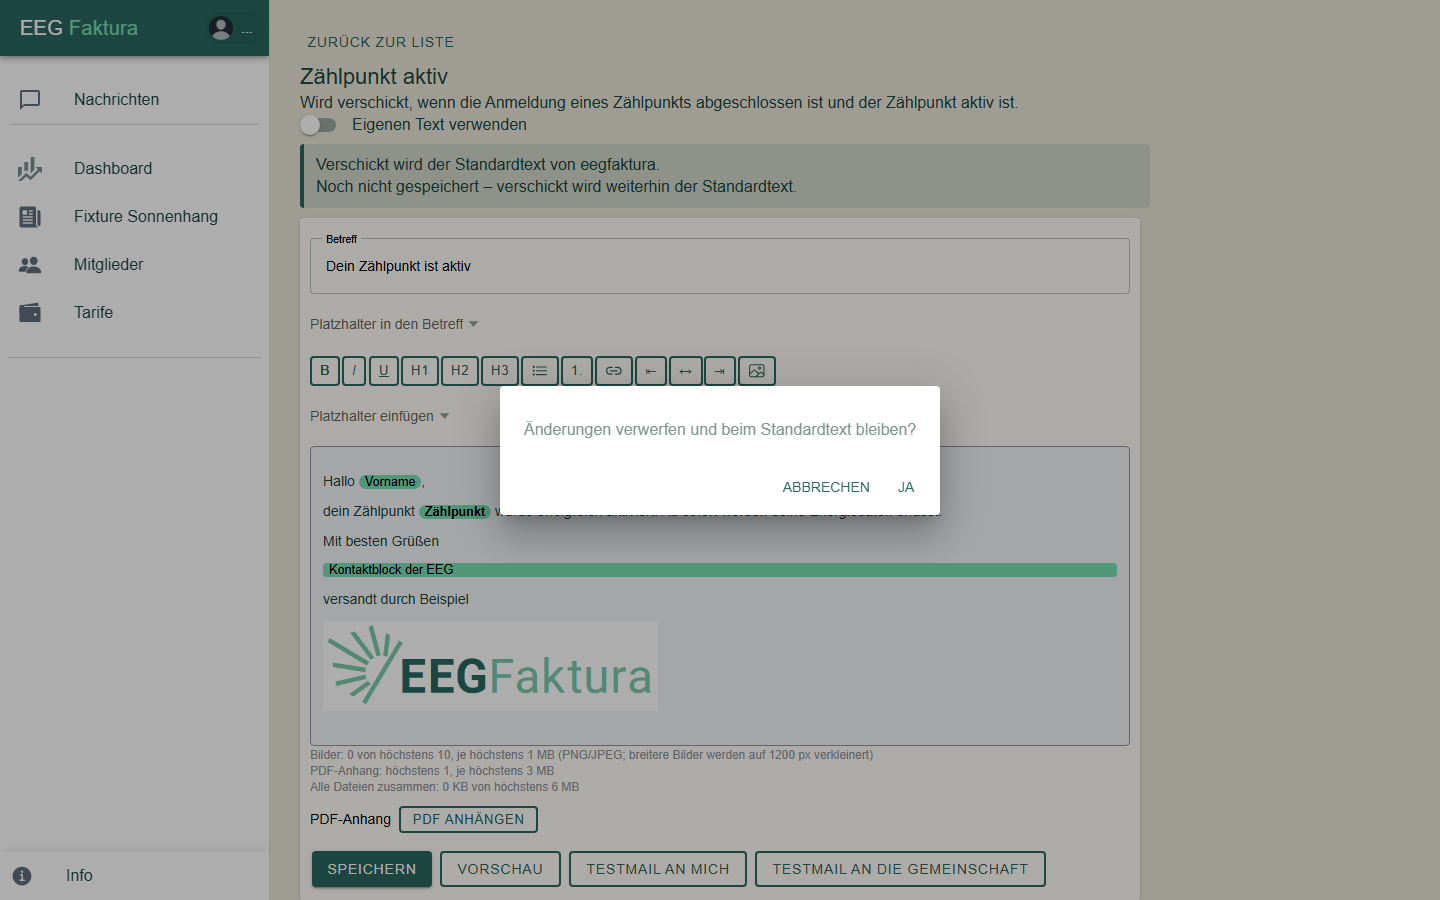
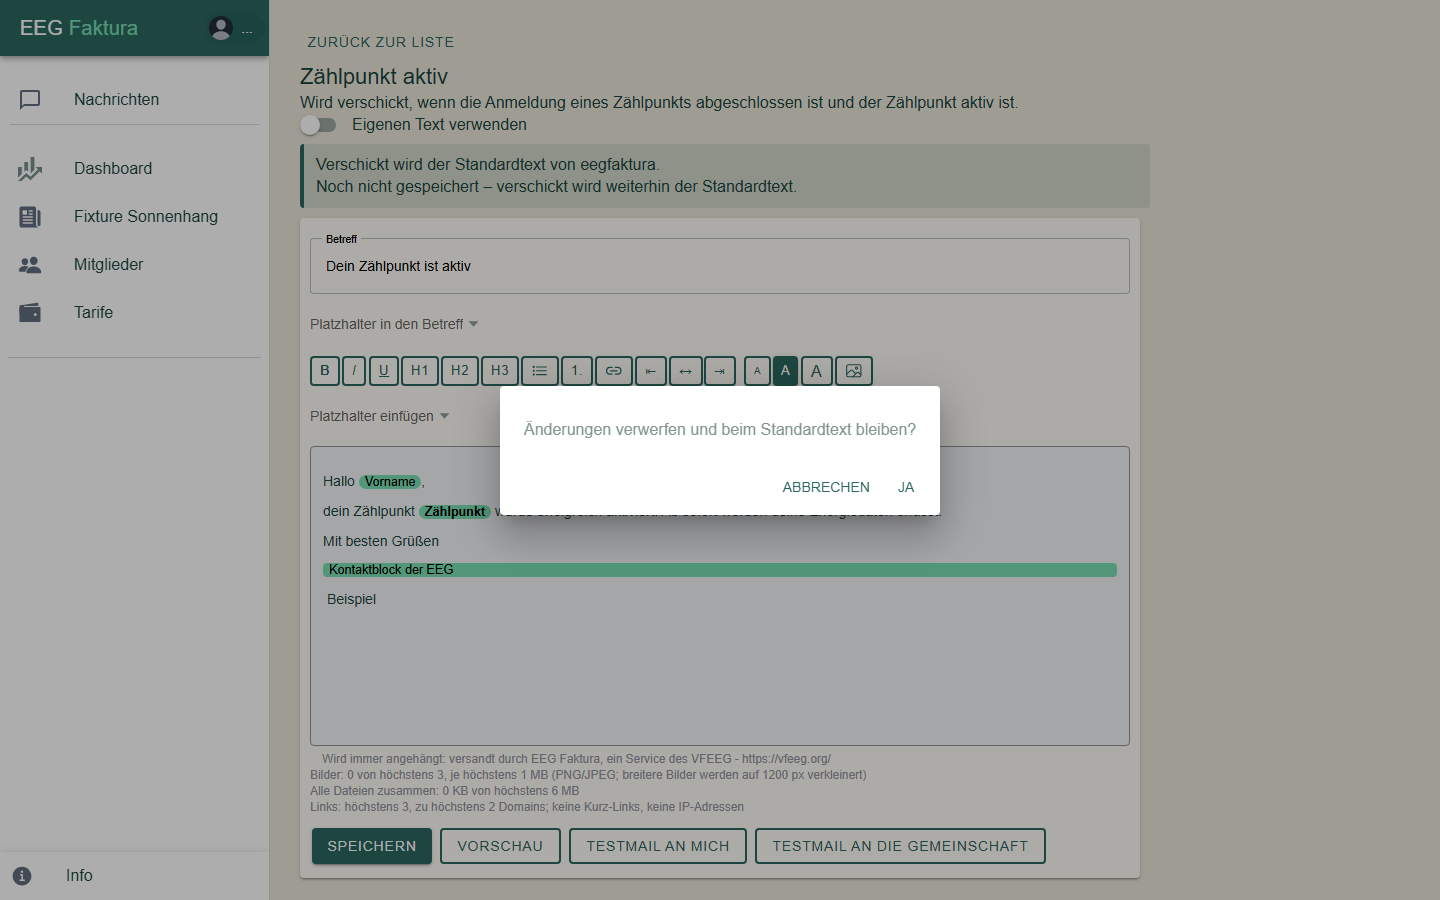
docs: bring the guide in line with the production release of 28.10.2026
Member list filters and sort options (ch. 2), mail-text editor additions,
limits and link rules (ch. 3), dashboard membership fees (ch. 1), 0 % VAT
without "Umsatzsteuer anführen" (ch. 4), ZIP names (ch. 5), process
selections and history dates (ch. 8); "Was ist neu?" describes the
production state. Screenshots retaken on the local stack at the release
state (web 1.14.0); the sort screenshot waits for the new popover.

Changed region(s): [[0.2188, 0.8089, 0.7812, 0.9956], [0.2188, 0.6533, 0.4688, 0.7778], [0.5, 0.3733, 0.625, 0.4356]]

diff --git a/scripts/screenshots.py b/scripts/screenshots.py
@@ -177,7 +177,7 @@ def chapter_members(page: Page) -> None:
 
     def sort_dialog():
         page.locator(".period-filter-menu .sort").first.click()
-        page.locator("ion-alert").wait_for()
+        page.locator("ion-popover .member-sort-popover").wait_for()
         shot("mitglieder-sortierung", page)
         close_overlays(page)
 

diff --git a/docs/03-email-texte.md b/docs/03-email-texte.md
@@ -2,7 +2,10 @@
 
 eegFaktura schickt deinen Mitgliedern automatisch E-Mails, zum Beispiel wenn ein Zählpunkt aktiv wird oder eine
 Rechnung fertig ist. Für jede dieser Mails gibt es einen **Standardtext von eegFaktura**. Du kannst ihn
-übernehmen, wie er ist, oder einen **eigenen Text** mit Bildern und einem PDF-Anhang gestalten.
+übernehmen, wie er ist, oder einen **eigenen Text** mit Bildern gestalten.
+
+Unter jeder Mail steht eine feste Zeile, die du nicht ändern kannst: „versandt durch EEG Faktura, ein Service des
+VFEEG - https://vfeeg.org/“. Im Editor siehst du sie grau unter dem Text („Wird immer angehängt: …“).
 
 Die E-Mail-Texte können nur **EEG-Admins** bearbeiten.
 
@@ -56,25 +59,45 @@ EEG**; er kommt aus den Angaben des Belegs, und dort gibt es zusätzlich den Pla
     - Die Knöpfe über dem Text formatieren ihn: **Fett**, **Kursiv**, **Unterstrichen**, **Überschrift 1–3**,
       **Aufzählung**, **Nummerierte Liste**, **Link**, **Linksbündig**, **Zentriert**, **Rechtsbündig** und
       **Bild einfügen**.
+    - **Schriftgröße** setzt den Absatz, die Überschrift oder den Listenpunkt am Cursor auf **Klein**, **Normal**
+      oder **Groß**.
     - **Platzhalter einfügen** setzt einen Platzhalter an die Stelle des Cursors; Einträge mit „(Baustein)“ fügen
       einen ganzen Absatz ein. **Platzhalter in den Betreff** macht dasselbe für den Betreff.
-    - Links müssen mit `https://` oder `mailto:` beginnen.
+    - Für Links gelten Regeln gegen Spam, siehe [Links](#links).
 3. Klicke auf **Speichern**. Ab jetzt verschickt eegFaktura eure Fassung; der Kasten wird grün:
    „Verschickt wird eure eigene Fassung (gespeichert am … von …).“
 
-### Bilder und PDF-Anhang
+### Bilder
 
-Mit eingeschaltetem eigenem Text kannst du Bilder (PNG oder JPEG) in den Text einfügen und bei den Mitglieder-Mails
-ein PDF anhängen (z. B. eine Anleitung). Breitere Bilder werden auf 1200 px verkleinert. Unter dem Text stehen die
-Grenzen der jeweiligen Mail:
+Mit eingeschaltetem eigenem Text kannst du Bilder (PNG oder JPEG) in den Text einfügen: mit **Bild einfügen**, durch
+Einfügen aus der Zwischenablage oder indem du die Bilddatei in den Text ziehst. Breitere Bilder werden auf 1200 px
+verkleinert. Fotos verlieren dabei ihre versteckten Angaben (z. B. den Aufnahmeort), bevor sie hochgeladen werden.
+Klickst du ein Bild an, stellst du unter **Bildgröße** **Klein**, **Mittel** oder **Groß** ein.
+
+Unter dem Text stehen die Grenzen der jeweiligen Mail:
 
 | | Freigabe-Aufforderung, Zählpunkt aktiv, Zählpunkt inaktiv | Rechnung / Gutschrift |
 |---|---|---|
-| Bilder | höchstens 10, je höchstens 1 MB | höchstens 3 |
-| PDF-Anhang (**PDF anhängen**) | höchstens 1, höchstens 3 MB | keiner — der Beleg ist immer angehängt |
-| alle Dateien zusammen | höchstens 6 MB | höchstens 500 KB |
+| Bilder | höchstens 3, je höchstens 1 MB | höchstens 3 |
+| alle Bilder zusammen | höchstens 6 MB | höchstens 500 KB |
+| PDF-Anhang | keiner | keiner — der Beleg ist immer angehängt |
 
-Neu hochgeladene Dateien sind **Entwürfe**: Sie werden erst mit dem Speichern verwendet.
+Neu hochgeladene Bilder sind **Entwürfe**: Sie werden erst mit dem Speichern verwendet.
+
+### Links
+
+Damit eure Mails nicht im Spam landen, prüft eegFaktura die Links beim Speichern, bei der Vorschau und bei der
+Testmail:
+
+- höchstens **3 Links** je Mail, zu höchstens **2 Domains** (`portal.netz.at` und `www.netz.at` zählen als eine);
+  E-Mail-Links (`mailto:`) und die feste Zeile unten zählen nicht mit,
+- Links beginnen mit `https://` oder `mailto:`,
+- keine Kurz-Links (z. B. bit.ly) und keine IP-Adressen,
+- steht im Linktext eine Adresse, muss es dieselbe sein wie das Ziel des Links,
+- kein Platzhalter in einem Link,
+- Domains mit Umlauten schreibst du in der Form mit `xn--` (z. B. `xn--mnchen-3ya.at` statt `münchen.at`).
+
+Verstößt ein Text gegen eine Regel, speichert eegFaktura ihn nicht und nennt den Grund.
 
 ## Vorschau und Testmail
 

diff --git a/docs/changelog.md b/docs/changelog.md
@@ -3,19 +3,48 @@
 Neue Funktionen von eegFaktura, die du als EEG-Admin bemerkst. Die Kapitel beschreiben jeweils den aktuellen
 Stand.
 
-## Herbst 2026
+## Herbst 2026 (seit 28.10.2026)
 
 ### E-Mail-Texte selbst gestalten
 
 Die automatischen Mails an Mitglieder (Freigabe-Aufforderung, Zählpunkt aktiv, Zählpunkt inaktiv,
-Rechnung / Gutschrift) lassen sich anpassen: eigener Betreff und Text, Bilder, PDF-Anhang, Vorschau und Testmail.
-Ob der Standardtext oder ein eigener Text verschickt wird, wählst du mit dem Schalter **Eigenen Text verwenden**.
+Rechnung / Gutschrift) lassen sich anpassen: eigener Betreff und Text, Schriftgröße, Bilder (auch per Einfügen oder
+Ziehen), Vorschau und Testmail. Ob der Standardtext oder ein eigener Text verschickt wird, wählst du mit dem
+Schalter **Eigenen Text verwenden**. Unter jeder Mail steht fest „versandt durch EEG Faktura, ein Service des
+VFEEG“. Gegen Spam gelten Regeln für Links (höchstens 3, keine Kurz-Links).
 Siehe [E-Mail-Texte](03-email-texte.md).
 
-### Dashboard: Bilanzdifferenz und Energiemengen
+### Energiedaten smart nachfordern
 
-Der **Lastverlauf** zeigt die Bilanzdifferenz (Hinweis auf fehlende Energiedaten) und markiert auffällige Zeiträume. Unter **Energiemengen** nennt ein
-Hinweis die Zählpunkte ohne gültigen Tarif, die in „Eingekauft“ und „Verkauft“ nicht enthalten sind.
+Beim Nachfordern prüft eegFaktura zuerst, wo Daten fehlen oder nur L3-Werte da sind, und fordert nur diese
+Zählpunkte an. Den Fortschritt siehst du unter **Nachrichten**.
+Siehe [Prozesse](08-prozesse.md#zahlpunktdaten-nachfordern).
+
+### Dashboard
+
+- Tagesansicht für die ganze Gemeinschaft, Zeitraum in den oberen Kacheln.
+- Der **Lastverlauf** zeigt die Bilanzdifferenz (Hinweis auf fehlende Energiedaten) und markiert auffällige
+  Zeiträume.
+- Unter **Energiemengen** nennt ein Hinweis die Zählpunkte ohne gültigen Tarif, die in „Eingekauft“ und „Verkauft“
+  nicht enthalten sind.
+- **Tarife** zeigt auch die Mitgliedsbeiträge und wie viele aktive Mitglieder keinen haben.
+
 Siehe [Dashboard](01-anmeldung.md#dashboard).
 
-Beides gibt es zunächst nur im Pilotbetrieb; wann es in den Regelbetrieb kommt, steht noch nicht fest.
+### Mitgliederliste
+
+Filter **Alle / Aktive / Inaktive** und eine wählbare Sortierung, z. B. nach Ort oder Einzugsart; „Mitglieder mit
+nötiger Aktion oben“ lässt sich abschalten.
+Siehe [Mitglieder & Zählpunkte](02-mitglieder-zaehlpunkte.md#zeitraum-filter-und-sortierung).
+
+### Prozesse
+
+Die Zählpunkt-Auswahl zeigt Verbraucher oder Erzeuger und den Anlagennamen; die Prozess History zeigt Datum als
+TT.MM.JJJJ und die Uhrzeit. Siehe [Prozesse](08-prozesse.md).
+
+### Abrechnung
+
+- Positionen eines Tarifs ohne „Umsatzsteuer anführen“ stehen auf dem Beleg mit 0 %, ohne eigene USt-Summenzeile.
+  Die Beträge bleiben gleich. Siehe [Tarife](04-tarife.md#umsatzsteuer).
+- Die Dateien im ZIP-Download heißen wie die Belege, ohne Zahl davor.
+  Siehe [Abrechnung](05-abrechnung.md#nach-der-abrechnung).

diff --git a/docs/08-prozesse.md b/docs/08-prozesse.md
@@ -4,8 +4,9 @@ Unter **Prozesse** löst du Vorgänge beim Netzbetreiber aus. Den Menüpunkt gib
 Gemeinschaften mit **Online-Anbindung**. eegFaktura verschickt die Anfrage über die Marktkommunikation (EDA); die
 Antwort kommt später unter [Nachrichten](07-nachrichten.md).
 
-Jedes Formular zeigt oben die **Gemeinschafts-ID**. Nach **Anfordern** meldet eegFaktura „Die Anforderung wurde an
-den Netzbetreiber gesendet.“ oder den Grund, warum es nicht geklappt hat.
+Jedes Formular zeigt oben die **Gemeinschafts-ID**. In der Zählpunkt-Auswahl steht jeder Zählpunkt mit
+**Verbraucher** oder **Erzeuger**, dem Anlagennamen (falls vergeben) und der Nummer. Nach **Anfordern** meldet
+eegFaktura „Die Anforderung wurde an den Netzbetreiber gesendet.“ oder den Grund, warum es nicht geklappt hat.
 
 ![Prozesse](images/prozesse.png)
 
@@ -50,7 +51,7 @@ Fehlt eegFaktura die Kennung der Datenfreigabe, fordere zuerst die **Teilnehmerl
 
 ![Teilnahmefaktor ändern](images/prozesse-teilnahmefaktor.png)
 
-1. Wähle **Mitglied** und **Zählpunkt** (die Auswahl zeigt den aktuellen Faktor).
+1. Wähle **Mitglied** und **Zählpunkt** (die Auswahl zeigt am Ende den aktuellen Faktor).
 2. Gib den neuen **Teilnahmefaktor in %** ein (1–100) und klicke auf **Anfordern**.
 
 > Der Netzbetreiber nimmt Änderungen **nur zwischen 9 und 17 Uhr** an, **eine pro Tag** je Zählpunkt; die Änderung
@@ -78,7 +79,7 @@ Zeigt die Kommunikation mit dem Netzbetreiber, standardmäßig der letzten 14 Ta
 | **Versenden der Energiedaten** | Energiedaten, die der Netzbetreiber geschickt hat (von – bis) |
 
 Jeder Bereich lässt sich nach Zählpunkt, Name, Mitgliedsnummer oder Conversation-ID durchsuchen. Je Zählpunkt stehen
-die Schritte mit Datum, **Protokoll** und **Status** bzw. **Info**.
+die Schritte mit Datum (TT.MM.JJJJ) und Uhrzeit, **Protokoll** und **Status** bzw. **Info**.
 
 **Eine Ablehnung lesen:** In der Spalte Protokoll steht dann ABLEHNUNG, in Status oder Info der Grund, z. B.
 „Zählpunkt nicht gefunden“, „Kunde hat Datenfreigabe abgelehnt“ oder „Prozessdatum falsch“.

diff --git a/docs/02-mitglieder-zaehlpunkte.md b/docs/02-mitglieder-zaehlpunkte.md
@@ -22,15 +22,25 @@ Der Balken unter dem Wert zeigt den Anteil des Zählpunkts.
 ### Zeitraum, Filter und Sortierung
 
 - **Periode** zeigt alle Mitglieder. Den Zeitraum (z. B. „Okt-Dez 2026“) wählst du darunter.
-- Der zweite Reiter filtert die Liste. Über das Filter-Symbol wählst du **Aktive**, **Ausstehende**, **Inaktive**
-  oder **Abgewiesene**.
+- Der zweite Reiter filtert die Liste. Über das Filter-Symbol wählst du **Alle**, **Aktive** oder **Inaktive**;
+  voreingestellt ist **Inaktive**. Der Filter zeigt die Mitglieder der Gemeinschaft unabhängig vom Zeitraum, jedes
+  mit genau den Zählpunkten, die passen:
+    - **Aktive**: Zählpunkte mit dem Status aktiv.
+    - **Inaktive**: alle anderen Zählpunkte, z. B. Anmeldung läuft, abgewiesen, aufgehoben oder ausgetreten. Dazu
+      aktive Zählpunkte, bei denen eine Aktion nötig ist (etwa eine laufende Aufhebung), und Mitglieder, die noch
+      zugelassen werden müssen. Hier findest du also alles, was einen Blick braucht.
+    - **Alle**: jedes Mitglied mit allen Zählpunkten.
 
   ![Filteroptionen](images/mitglieder-filter.png)
 
-- Das Pfeil-Symbol ganz rechts öffnet die **Sortierung**: Standard, Nachname, Vorname, Mitgliedsnummer oder
-  Mitglied seit (neueste bzw. älteste zuerst). Mitglieder, bei denen eine Aktion nötig ist, bleiben immer oben.
+- Das Pfeil-Symbol ganz rechts öffnet die **Sortierung**: Mitgliedsnummer (voreingestellt), Nachname, Vorname,
+  Mitglied seit (neueste bzw. älteste zuerst), Aktiviert seit (neueste zuerst), Einzugsart oder Ort. Mit dem Haken
+  **Mitglieder mit nötiger Aktion oben** bleiben Mitglieder, bei denen etwas zu tun ist, vor den anderen; ohne Haken
+  gilt die Sortierung für alle gleich. Die Wahl gilt nach **Übernehmen** und bleibt in deinem Browser gespeichert.
 
   ![Sortierung](images/mitglieder-sortierung.png)
+
+- Bei jedem Mitglied stehen die Verbraucher vor den Erzeugern.
 
 ### Farben
 

diff --git a/docs/01-anmeldung.md b/docs/01-anmeldung.md
@@ -59,7 +59,7 @@ Das **Dashboard** zeigt die wichtigsten Zahlen der Gemeinschaft, meist für den 
 
 | Bereich | Inhalt |
 |---------|--------|
-| **Übersicht EEG** | Mitglieder „Stand heute“ (aktive, inaktive, in Anmeldung), aktive Zählpunkte (Abnehmer und Einspeiser), Tarife mit der Anzahl ihrer Zählpunkte |
+| **Übersicht EEG** | Mitglieder „Stand heute“ (aktive, inaktive, in Anmeldung), aktive Zählpunkte (Abnehmer und Einspeiser), Tarife mit der Anzahl ihrer Zählpunkte; in derselben Liste darunter die Mitgliedsbeitrags-Tarife mit der Anzahl aktiver Mitglieder und, wenn aktive Mitglieder keinen haben, die Zeile „ohne Mitgliedsbeitrag“ |
 | **Übersicht Stromproduktion und Verteilung** | **Produziert**, **Verteilt** und **EVU** (Bezug vom Energieversorger), jeweils mit der vorherigen Periode zum Vergleich; darunter die **Energiemengen** „Eingekauft“ und „Verkauft“ |
 | **Lastverlauf** | Balken für EEG, EVU und Erzeugung über den Zeitraum, darüber die **Bilanz** (siehe unten); auffällige Balken tragen ein „!“ |
 | **Tagesverlauf** | Verlauf über den Tag (EEG, EVU, Erzeugt) |
@@ -71,8 +71,8 @@ eegFaktura zeigt „Bilanz ausgeglichen“ (sehr kleine Werte sind Rundung). Ein
 heißt, vermutlich fehlen Daten von Einspeisern, **positiv**, vermutlich fehlen Daten von Beziehern. Für die
 jüngsten Tage ist eine Differenz normal, solange noch nicht alle Daten eingetroffen sind. Fehlen ältere Daten,
 kannst du sie unter **Prozesse → Zählpunktdaten nachfordern** anfordern.
- „Eingekauft“ und „Verkauft“ zählen
-nur Zählpunkte mit einem gültigen Tarif der Gemeinschaft; ein Hinweis darunter nennt die Zählpunkte, die deshalb
+
+**Energiemengen:** „Eingekauft“ und „Verkauft“ zählen nur Zählpunkte mit einem gültigen Tarif der Gemeinschaft; ein Hinweis darunter nennt die Zählpunkte, die deshalb
 fehlen.
 
 ## EEG-Seite

diff --git a/docs/05-abrechnung.md b/docs/05-abrechnung.md
@@ -114,13 +114,17 @@ Belege mit dem Betrag 0 werden nicht erstellt. Erzeuger ohne UID bekommen eine *
 | Knopf | Was er tut |
 |-------|------------|
 | **SENDEN** | schickt jedem Mitglied mit E-Mail-Adresse seinen Beleg als PDF, mit der Gemeinschaft in Kopie. Text und Betreff kommen aus den [E-Mail-Texten](03-email-texte.md) („Rechnung / Gutschrift“) |
-| **DOWNLOAD** | alle Belege als ZIP |
+| **DOWNLOAD** | alle Belege als ZIP (Dateinamen siehe unten) |
 | **EXCEL** | Aufstellung aller Belege und Positionen, z. B. für die Buchhaltung |
 | **SEPA** | Dateien für die Bank (siehe unten) |
 
 > **Vor dem Senden:** **SENDEN** geht pro Lauf nur **einmal**. Einzelne Mails, die nicht zugestellt werden können
 > (fehlende oder ungültige Adresse), zeigt eegFaktura nicht an, und der Versand lässt sich nicht wiederholen. Prüfe die
 > E-Mail-Adressen deshalb vorher und gib Mitgliedern ohne Mail ihren Beleg aus dem **DOWNLOAD** (ZIP).
+
+**Dateinamen im ZIP:** Rechnungen und Gutschriften heißen wie der Beleg, mit der Belegnummer, z. B.
+`Abr_YM-2026-9_Rechnung_RG202600123.pdf`. Vorschau-Belege tragen die Mitgliedsnummer am Ende, z. B.
+`Abr_YM-2026-9_Rechnung_Vorschau_042.pdf`. Kommt ein Name trotzdem zweimal vor, bekommt der zweite „ (2)“.
 
 ### SEPA-Dateien
 

diff --git a/CHANGELOG.md b/CHANGELOG.md
@@ -4,6 +4,15 @@ All notable changes to this guide. Format: [Keep a Changelog](https://keepachang
 
 ## [Unreleased]
 
+### Changed
+- Brought in line with the production release of 28.10.2026 (web 1.14.0, backend 1.10.0, billing 1.5.0), each
+  point checked against the code: member list filters Alle/Aktive/Inaktive and the new sort options (chapter 2);
+  mail texts: font size, image size, pasting/dropping images, fixed footer, link rules, 3 images and no PDF for
+  member mails (chapter 3); dashboard membership fees (chapter 1); 0 % VAT for tariffs without „Umsatzsteuer
+  anführen“ (chapter 4); ZIP file names (chapter 5); direction and equipment name in the process selections, date
+  and time in the process history (chapter 8); „Was ist neu?“ now describes the production state instead of
+  „pilot only“. Screenshots retaken on the local stack at the release state.
+
 ### Added
 - Aspects of the previous guide (docs.eegfaktura.at), each checked against the code: new page Einrichtung & Hilfe
   (connection via the VFEEG KEP, members' data release with links to the grid-operator guides, data protection,

diff --git a/docs/04-tarife.md b/docs/04-tarife.md
@@ -34,6 +34,9 @@ Hake **Umsatzsteuer anführen** an, wenn auf dem Beleg Umsatzsteuer ausgewiesen 
 **Umsatzsteuer in %** und optional einen **Zusatztext für Umsatzsteuer** ein. Welche Steuer gilt, klärst du bitte
 mit deiner Steuerberatung.
 
+Ohne den Haken stehen die Positionen dieses Tarifs auf dem Beleg mit **0 %** in der USt-Spalte, und für sie gibt es
+keine eigene USt-Summenzeile. Ein Feld, das du leerst, zählt als 0.
+
 ### Bestandteile je Art
 
 | Art | Felder |
